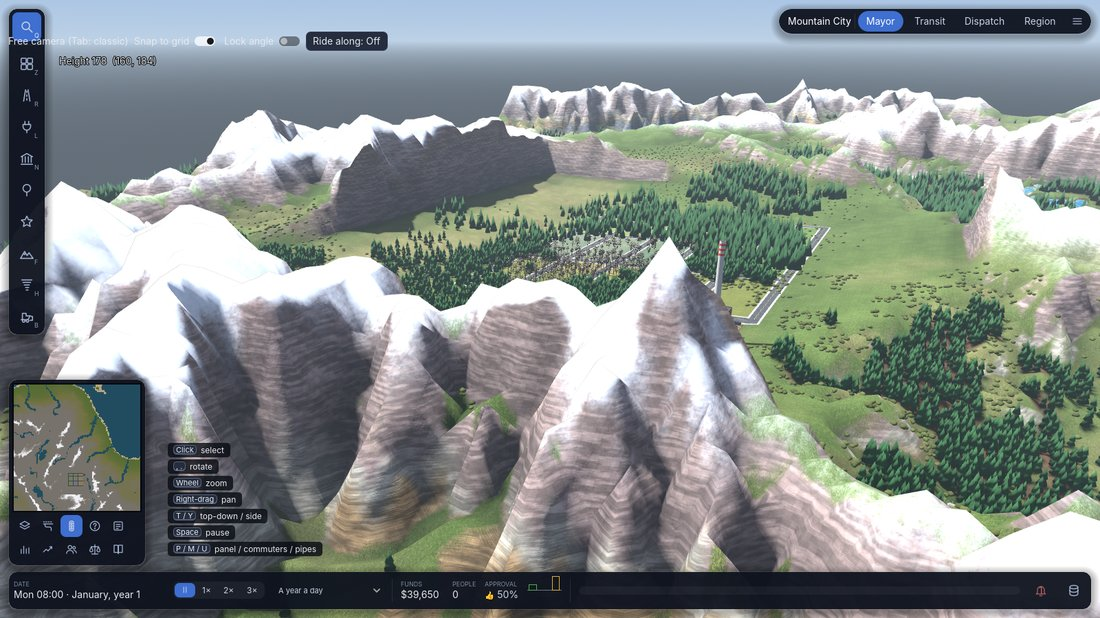
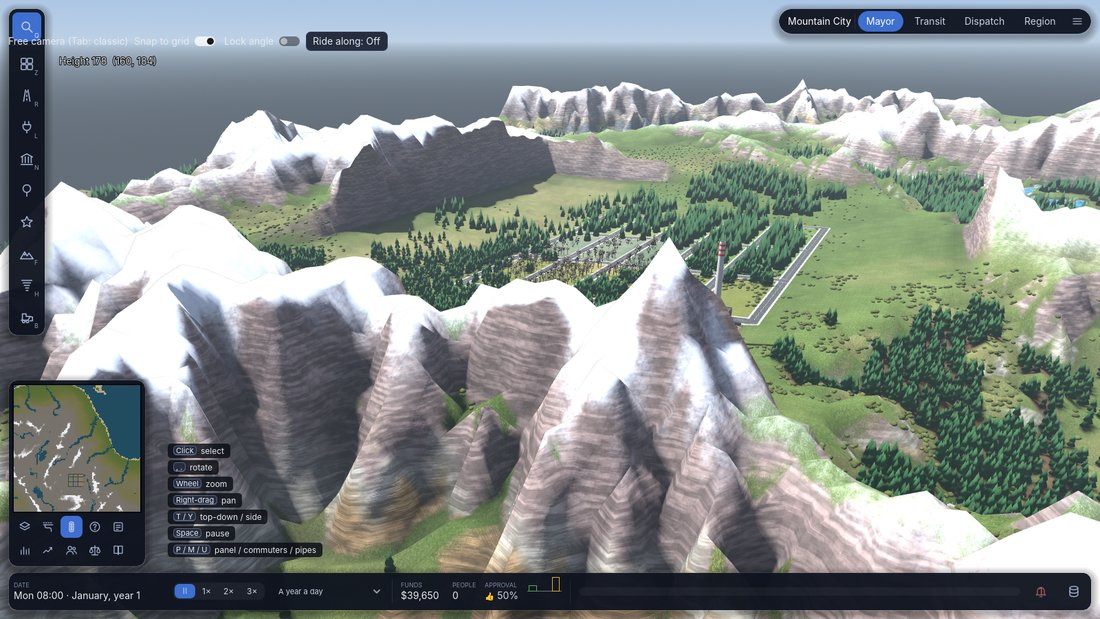
Screenshots: part 6.1 mountain shots from the merged fix
The river valley shot was taken before plants were cleared under the
starter town, so pines stood on its roads. Re-shot on main, plus a street
close-up of Mountain City.

Claude-Session: https://claude.ai/code/session_01NPEbfPGESShDuwTLLXkdDx

Changed region(s): [[0.4018, 0.3382, 0.7418, 0.4919]]

diff --git a/README.md b/README.md
@@ -74,7 +74,7 @@ Release candidate, part 6.1: plants in their place ([`docs/screenshots/rc6-1-pla
 | | |
 |---|---|
 | ![Snowy peaks above a wooded valley, bare above the treeline](docs/screenshots/rc6-1-plants/river-valley.jpg) | ![A crag up close: the rock's beds lie level, conifers below and a little scrub on the slope](docs/screenshots/rc6-1-plants/crag.jpg) |
-| ![A street on the slope: the roads clear of bushes, which keep to the lots](docs/screenshots/rc6-1-plants/street-on-the-slope.jpg) | |
+| ![A street on the slope: the roads clear of bushes, which keep to the lots](docs/screenshots/rc6-1-plants/street-on-the-slope.jpg) | ![Mountain City's streets up close: conifers and broadleaf woods on the lots, the roads clear](docs/screenshots/rc6-1-plants/mountain-street.jpg) |
 
 Release candidate, part 6: terrain textures ([`docs/screenshots/rc6-terrain`](docs/screenshots/rc6-terrain)):
 
